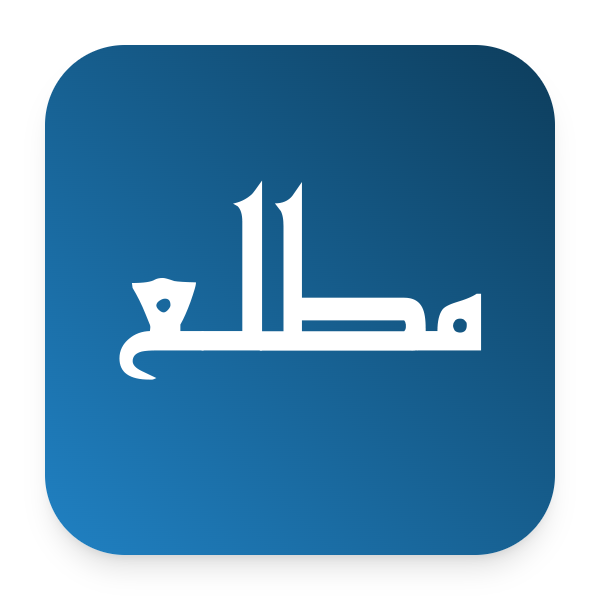
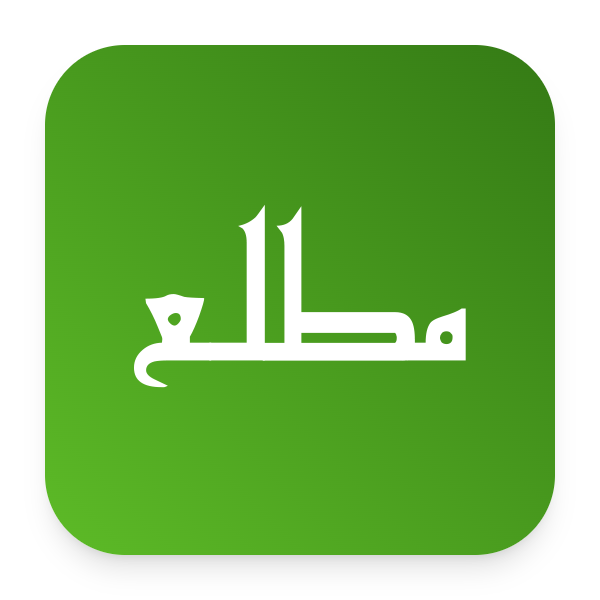
Splashsreen and ui work

diff --git a/screens/Signup.js b/screens/Signup.js
@@ -190,7 +190,7 @@ const styles = StyleSheet.create({
     borderRadius: 10,
     // background: "",
     color: "red",
-    backgroundColor: "#2081C3",
+    backgroundColor: "#5dbb27",
 
     
     display: "flex", flexDirection: "row", justifyContent: 'center', alignItems: "center"

diff --git a/screens/Login.js b/screens/Login.js
@@ -159,7 +159,7 @@ const styles = StyleSheet.create({
     borderRadius: 10,
     // background: "",
     color: "white",
-    backgroundColor: "#2081C3",
+    backgroundColor: "#5dbb27",
 
 
     display: "flex", flexDirection: "row", justifyContent: 'center', alignItems: "center"

diff --git a/components/SplashScreen.js b/components/SplashScreen.js
@@ -8,7 +8,7 @@ function SplashScreen() {
         justifyContent: "space-between",
         alignItems: "center",
         height: "100%",
-    backgroundColor: '#011627',
+    backgroundColor: '#0d0d15',
 
     }}>
 <View>

diff --git a/screens/Feed.js b/screens/Feed.js
@@ -306,6 +306,7 @@ const styles = StyleSheet.create({
     marginHorizontal: 5,
     padding: 8,
     backgroundColor: "#5dbb27",
+    // 347a15
     color: "white",
     paddingVertical: 10,
     paddingHorizontal: 30,
